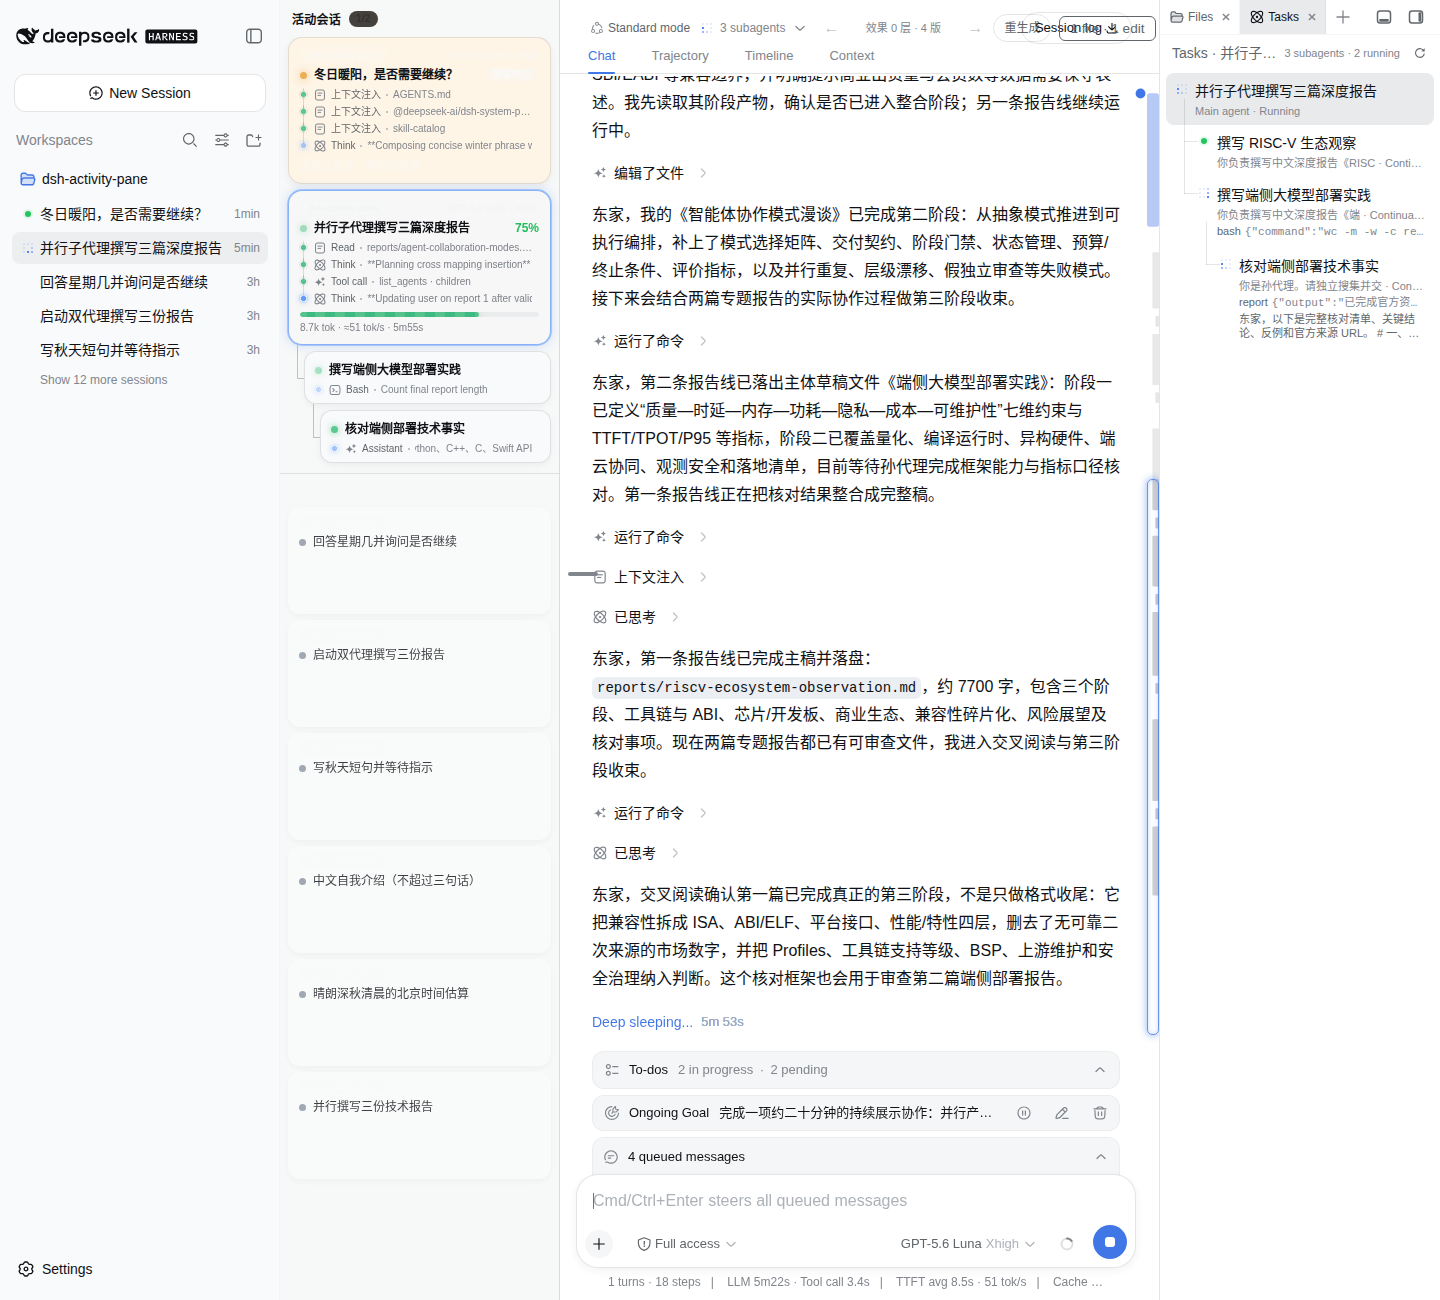
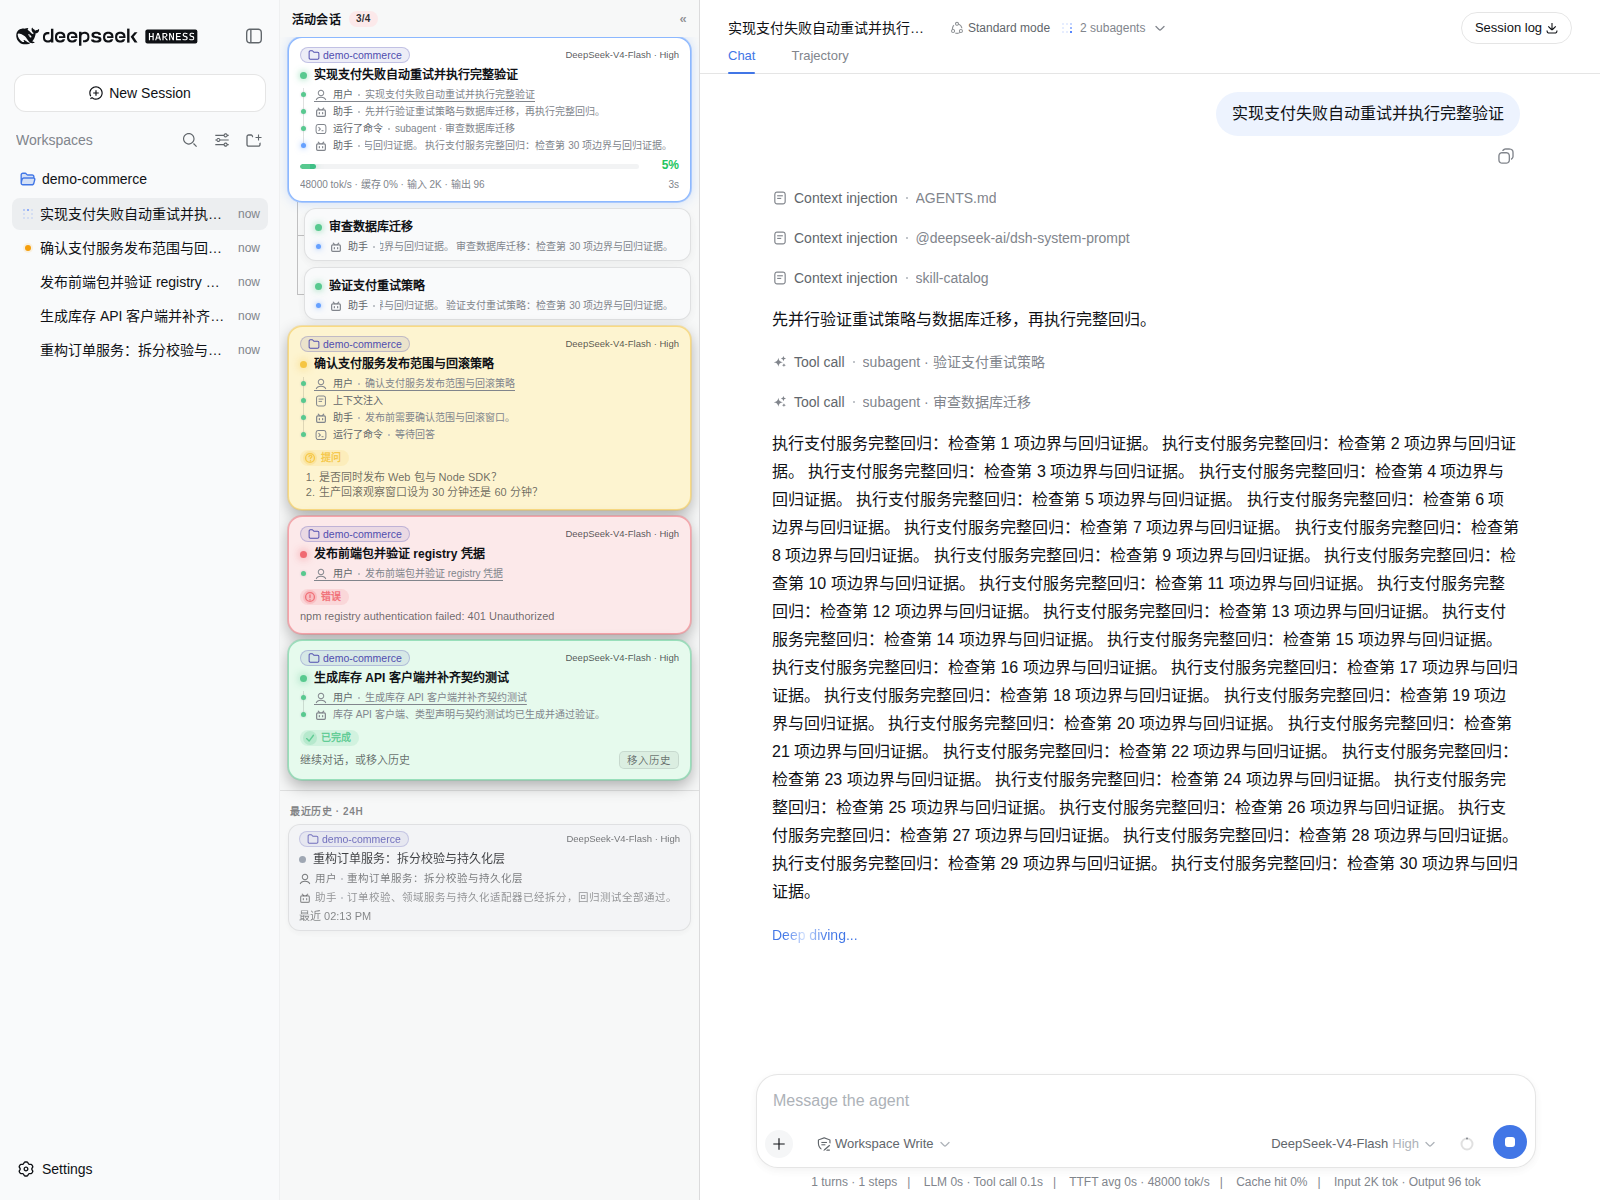
🚀 发布(readme): 为上架市场更新主 README 与市场截图
## 原因
东家批准发布 v0.1.0 并上架 dsh-market：主 README 改为深浅色自适应大图并按当前实现更新能力描述，四张截图替换为干净隔离环境（clean-market-dsh-home-v3）实拍版本，供市场 screenshots.json 的 raw 直链引用。

## 影响
- README.md 主图改为 <picture> 深浅色自适应，移动端抽屉截图以链接提供；能力描述同步当前实现。
- assets/ 四张截图（desktop/mobile × light/dark）替换为干净环境版本，路径不变，fork 侧 screenshots.json 直链自动生效。
- TODO.md 迁出已执行的市场上架条目。

## 取舍
- 截图路径保持不变，fork 侧条目无需改动；不改 package.json 依赖形态，peerDependencies 调整留作后续维护。

Changed region(s): [[0.0, 0.0, 1.0, 1.0], [0.2188, 0.8325, 0.2812, 0.8633], [0.0, 0.9558, 0.0625, 0.9867]]

diff --git a/README.md b/README.md
@@ -4,16 +4,20 @@ DSH (DeepSeek Harness) 一大痛点是缺少活动会话与历史会话的管理
 - 现在有多少个会话在并行跑？
 - 哪些会话启动了子代理甚至孙代理会话？它们有多少？
 - 每个会话现在正在做什么？它们的进度如何？跑了多长时间？
-- 每个会话使用什么模型？什么推理级别？输出tps是多少？
-- 哪些会话的agent轮次最近刚结束，需要我响应？
+- 每个会话使用什么模型？什么推理级别？输出速率、缓存命中率和 token 使用情况如何？
+- 哪些会话的 agent 轮次最近刚结束，需要我行动？
 - 过去一段时间我在哪些会话里交互过？最近的指令与结论是什么？
 - ...
 
-本插件试图解决这些问题，提供了一个**活动会话总览窗格**：将正在运行的会话、子会话、轮次完成等待响应的会话、近期活跃过的历史会话，集中在一个窗格内进行整体展示。
+本插件试图解决这些问题，提供了一个**活动会话总览窗格**：将正在运行的会话、子会话、轮次完成后等待行动的会话、近期活跃过的历史会话，集中在一个窗格内进行整体展示。
 
 <p align="center">
-  <img src="assets/screenshot-desktop-dark.png" width="760" alt="活动会话总览窗格（深色主题）：与原生左边栏协同展示运行中、等待行动、子代理嵌套的会话卡片与最近历史">
+  <picture>
+    <source media="(prefers-color-scheme: dark)" srcset="assets/screenshot-desktop-dark.png">
+    <img src="assets/screenshot-desktop-light.png" width="1000" alt="隔离演示环境中的活动会话总览窗格：展示运行统计、子代理层级、提问等待、完成提醒、错误提醒和最近历史">
+  </picture>
 </p>
+<p align="center"><sub>同一干净隔离环境中模拟编程任务的 <a href="assets/screenshot-mobile-dark.png">移动端深色抽屉</a> · <a href="assets/screenshot-mobile-light.png">移动端浅色抽屉</a></sub></p>
 
 ## 感谢与声明
 
@@ -24,12 +28,14 @@ DSH (DeepSeek Harness) 一大痛点是缺少活动会话与历史会话的管理
 
 ## 相比 dsh-answer-pet 的调整
 
-- [x] **从浮层改为固定窗格**：桌面版本在左边栏工作区的右侧增加了一个常驻窗格，移动版本在左侧增加了一个滑动抽屉。
+- [x] **从浮层改为固定窗格**：桌面端在左边栏工作区的右侧增加常驻贴边列；移动端使用默认隐藏的固定抽屉，通过会话头部的「活动」按钮展开，不挤压主会话布局。
 - [x] **去除宠物图标功能**：不支持宠物相关功能，界面聚焦于会话活动本身。
-- [x] **原生数据源订阅**：直接订阅 DSH 原生 `sessions` / `workspaces` 服务的推送式快照，时间线显示最近 4 条活动内容。
+- [x] **原生数据源订阅**：直接订阅 DSH 原生 `sessions` / `workspaces` 服务的推送式快照；时间线最多显示 4 个折叠工作项行，保留最近用户指令与真实执行中的工作项。
 - [x] **增加历史会话列表**：窗格分为「活动会话」和「最近历史」两个区域，非活动主会话在最近 24 小时内仍可快速找回。
-- [x] **强化等待响应提醒**：阻塞等待、完成提醒与错误提醒分别以金色、绿色和红色卡片标识；完成提醒经卡片上的「移入历史」按钮显式确认，确认状态由宿主侧持久化并在所有客户端间同步（刷新页面或另开窗口不丢失待确认提醒）。
-- [x] **显示子/孙会话层级**：运行中的子代理以紧凑卡片嵌套在母会话下，结束后自动消失；历史区只保留主会话。
-- [x] **显示工作区名称并参与排序**：会话卡片显示所属工作区名称，会话排序与左侧边栏中的工作区顺序保持一致。
-- [x] **加入会话导航跳转**：点击会话卡片可跳转到对应会话页面。
+- [x] **强化等待行动提醒**：阻塞等待、完成提醒与错误提醒分别以金色、绿色和红色卡片标识；提问直接预览问题列表，完成提醒经卡片上的「移入历史」按钮显式确认；状态由宿主侧持久化并在所有客户端间同步，刷新页面或另开窗口不会丢失未确认的完成提醒和尚未被新回合覆盖的错误提醒。
+- [x] **显示子/孙会话层级**：子代理以连接线和紧凑卡片嵌套在母会话下；母会话自身回合结束但仍有活动后代时继续按运行中呈现，子代理结束且没有活动后代后从活动区消失；历史区只保留主会话。
+- [x] **显示工作区名称并参与排序**：会话卡片显示带稳定色彩的工作区徽标，会话排序与左侧边栏中的工作区顺序保持一致。
+- [x] **展示当前工作与运行统计**：活动卡以最多 4 行折叠时间线展示最近指令、思考与工具调用；运行中卡片还显示回合进度、输出速率、缓存命中率、输入/输出 token 与运行时长。
+- [x] **加入会话导航跳转**：点击或键盘激活会话卡片可跳转到对应会话页面，当前会话保持高亮。
 - [x] **增加会话元信息**：会话卡片中显示当前使用的模型名称和推理级别。
+- [x] **完善桌面与移动交互**：桌面窗格可折叠、拖拽调宽并记忆宽度；移动端使用不挤压主会话布局的固定抽屉；长列表提供独立滚动与回到顶部按钮。

diff --git a/TODO.md b/TODO.md
@@ -7,5 +7,3 @@ owner: 双方
 # TODO — 想法收集箱
 
 ## 条目
-
-- [维护想法] 上架 dsh-market：目录在 awesome-dsh-plugin 仓库（PR 一条 data/plugins/ccll__dsh-activity-pane.yml，需仓库满 1 天、≥10 commits、加 dsh-plugin topic）；可选发布 npm（package 已具备公开发布字段，仍需决定发布渠道）。
